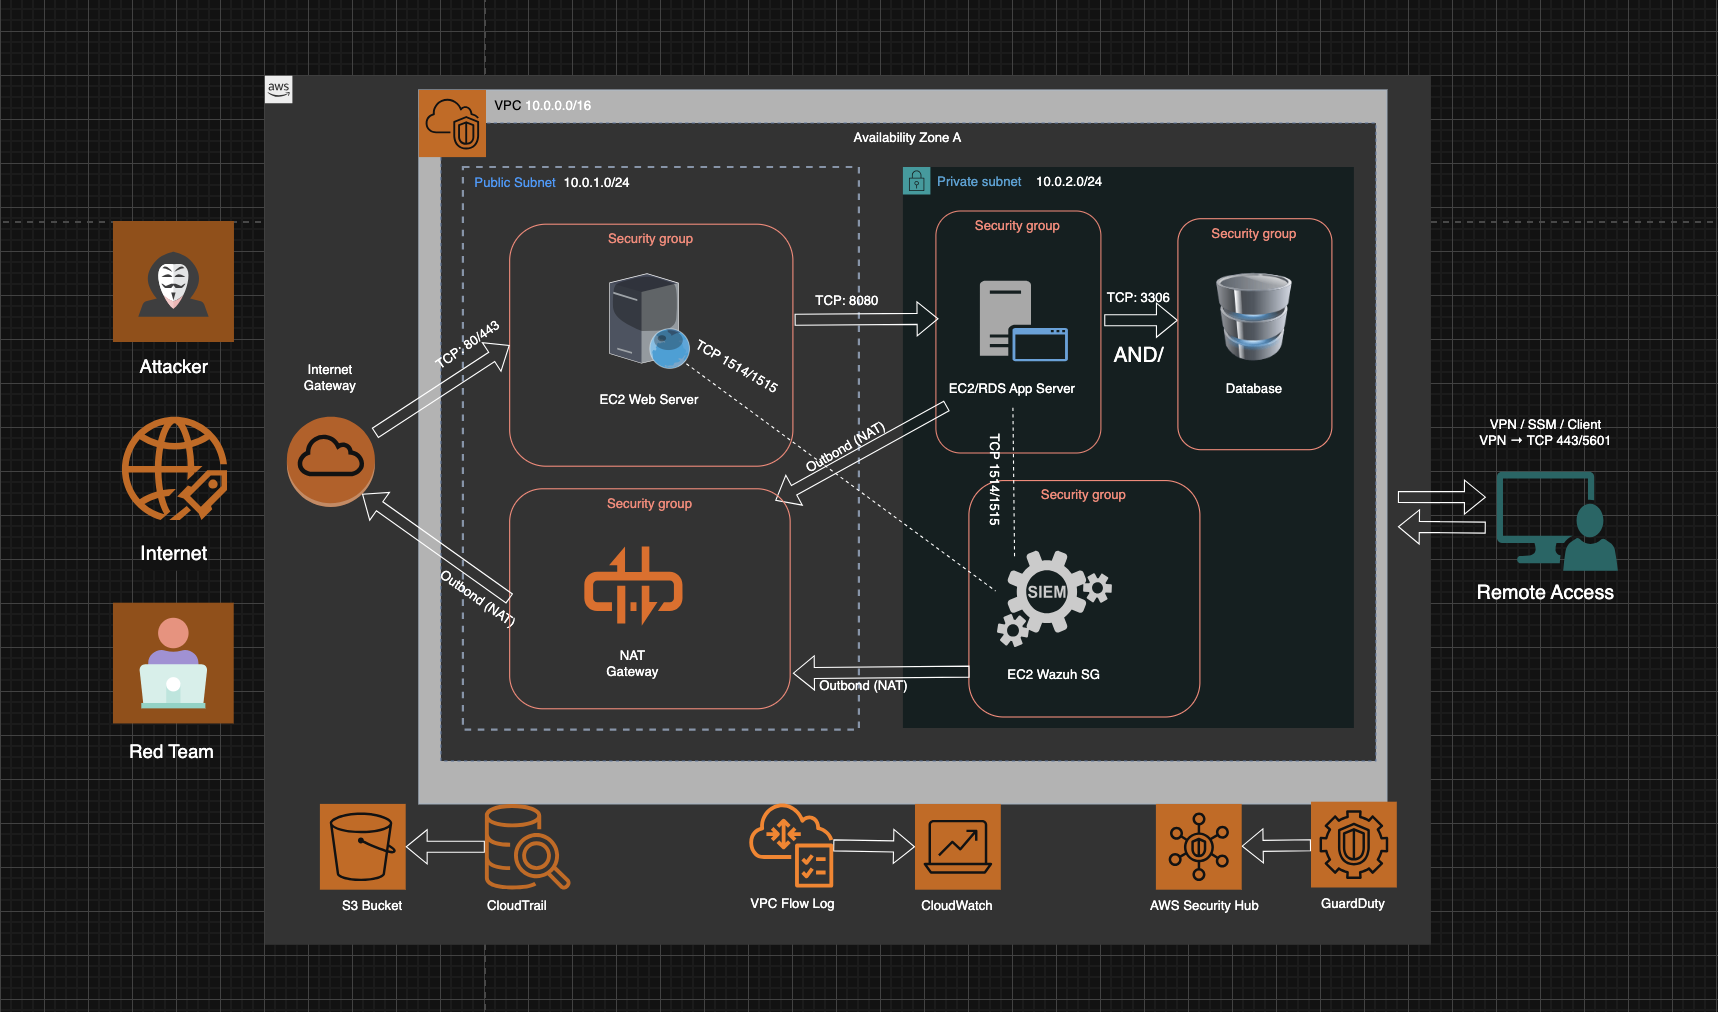
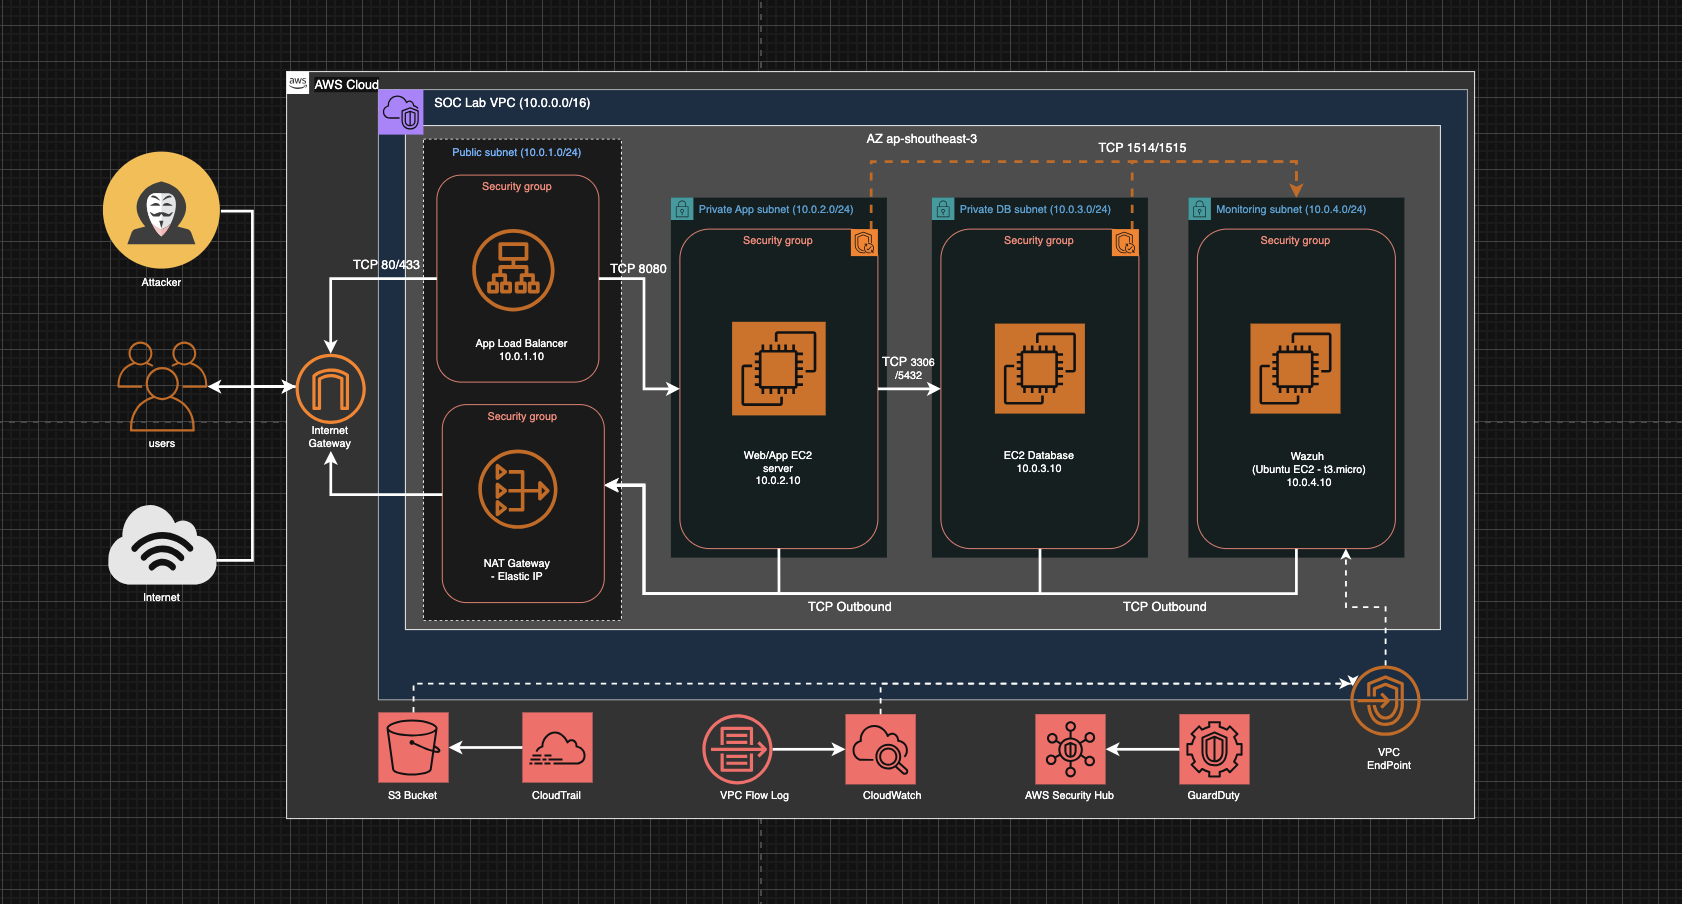
WIP: refactored architecture diagram

diff --git a/phases/phase-1-foundation/vpc-design.md b/phases/phase-1-foundation/vpc-design.md
@@ -1,0 +1,5 @@
+<!-- >Restrict bastion SG to your IP only"Bastion for lab access; in production, I'd use SSM to eliminate public SSH."
+> "Designed for multi-AZ; implemented single AZ to save costs/time."
+>App → DB (e.g., 3306/5432) — ensure SG allows only from app SG.
+
+--!>
